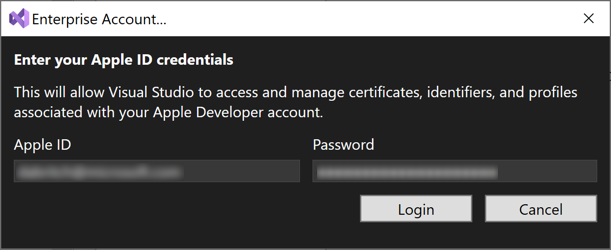
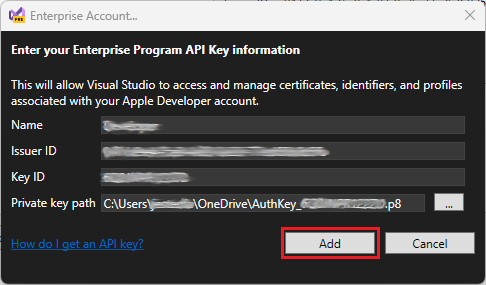
Updated Apple Account Management docs for new Enterprise Program API (#2603)
* Updated Apple Account Management docs for new Enterprise Program API

* Fixed broken link

* Minor edit.

---------

diff --git a/docs/ios/apple-account-management.md b/docs/ios/apple-account-management.md
@@ -1,7 +1,7 @@
 ---
 title: "Apple account management"
 description: "Learn how to use Apple account management features in Visual Studio."
-ms.date: 08/27/2024
+ms.date: 11/08/2024
 ---
 
 # Apple account management
@@ -25,11 +25,18 @@ To add your Apple account to Visual Studio:
 
     :::image type="content" source="media/apple-account-management/vs/add-account.png" alt-text="Add an Apple Developer Account to Visual Studio.":::
 
-1. To add an enterprise account, in the **Enterprise Account...** dialog, enter your Apple ID and password, and click the **Login** button:
+1. To add an enterprise account, in the **Enterprise Account...** dialog, enter your Enterprise Program API key data and click the **Add** button:
 
     :::image type="content" source="media/apple-account-management/vs/enterprise-account.png" alt-text="Add an Enterprise Apple Developer Account to Visual Studio.":::
 
+    The **Name**, **Issuer ID**, and **Key ID** data can be found in [Apple Developer Accounts](https://developer.apple.com/account) by selecting **Users and Access** and then the **Integrations** tab. The **Private key** can also be downloaded from this location:
+
+    :::image type="content" source="media/apple-account-management/enterprise-details.png" alt-text="Screenshot of Apple Enterprise Program API details.":::
+
     Provided that your account details are valid, your Apple Developer Account will be added to Visual Studio.
+
+    > [!NOTE]
+    > Only "Admin" keys will be able to register new Bundle IDs and generate new provisioning profiles. "Developer" keys will not be able to perform these tasks.
 
 1. To add an individual account, in the **Individual Account...** dialog, enter your App Store Connect API key data and click the **Add** button:
 
@@ -40,6 +47,8 @@ To add your Apple account to Visual Studio:
     :::image type="content" source="media/apple-account-management/app-store-connect-details.png" lightbox="media/apple-account-management/app-store-connect-details-large.png" alt-text="Screenshot of Apple App Store Connect API details.":::
 
     Provided that your account details are valid, your Apple Developer Account will be added to Visual Studio.
+
+    Note: Only "Admin" keys will be able to register new Bundle IDs and generate new provisioning profiles. "Developer" keys will not be able to perform these tasks.
 
 1. Once your account has been added successfully, you'll see your Apple ID and any teams that your Apple ID is part of:
 
